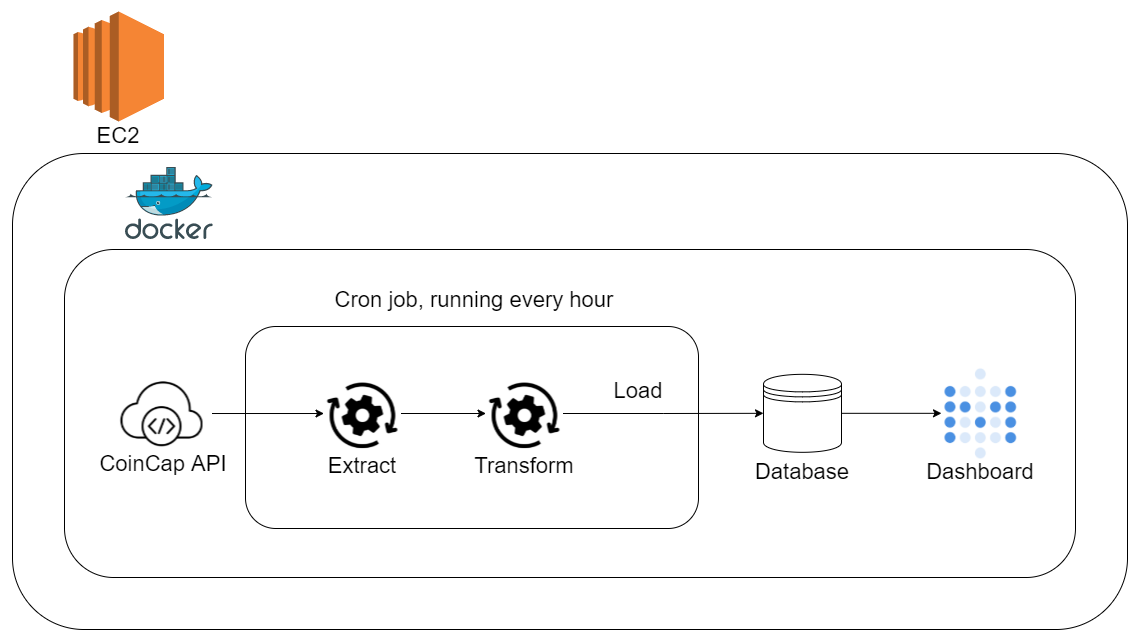
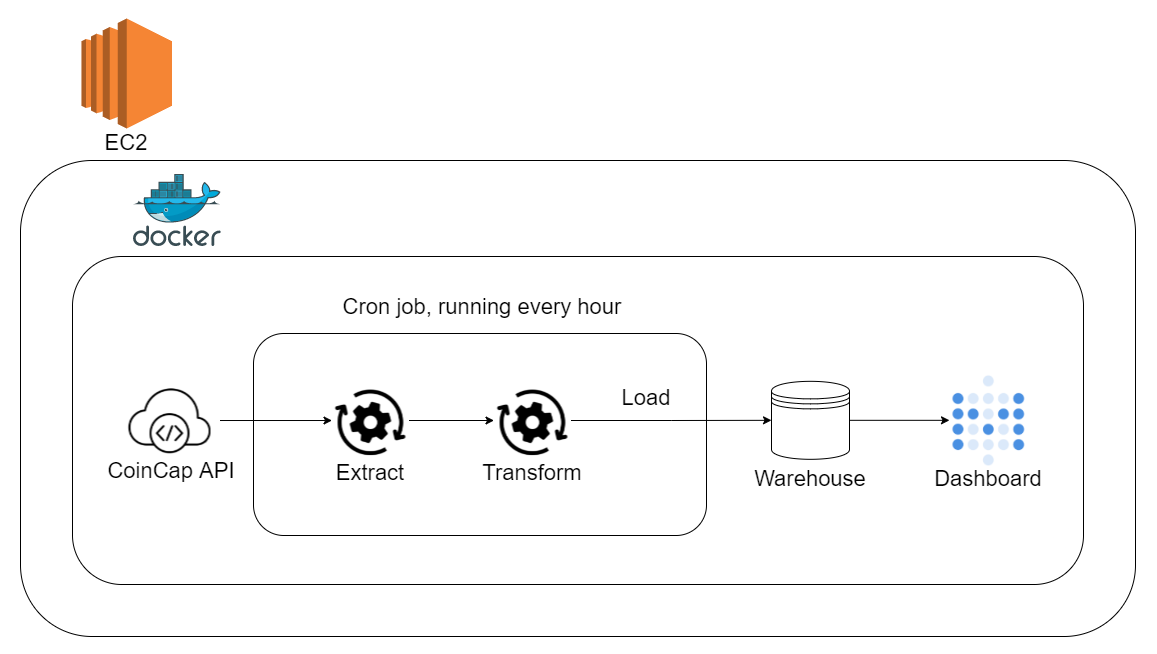
Updated README.md

diff --git a/README.md b/README.md
@@ -3,8 +3,7 @@
 The project consists of an ETL pipeline to pull the data about cryptocurrency exchanges using the [CoinCap API](https://docs.coincap.io/). The data is then loaded into the data warehouse and visualized on the dashboard created in Metabase. The goal was to show how the volume in the last 24 hours changes in time across the exchanges and see the top 10 ones. Everything is containerized using Docker and is working on the Amazon EC2 instance.
 
 ## Architecture
-Since there are not many scripts to be scheduled, I have decided to use cron instead of setting up a framework like an Airflow. The cron job is scheduled to run every hour. 
-
+In this project, PostgreSQL serves as a Data Warehouse. In the ETL process, there is python used, and since there are not many scripts to be scheduled, I have decided to use cron instead of setting up a framework like an Airflow. The cron job is scheduled to run every hour.
 ![architecture](/images/architecture.png)
 
 ## Visualization
